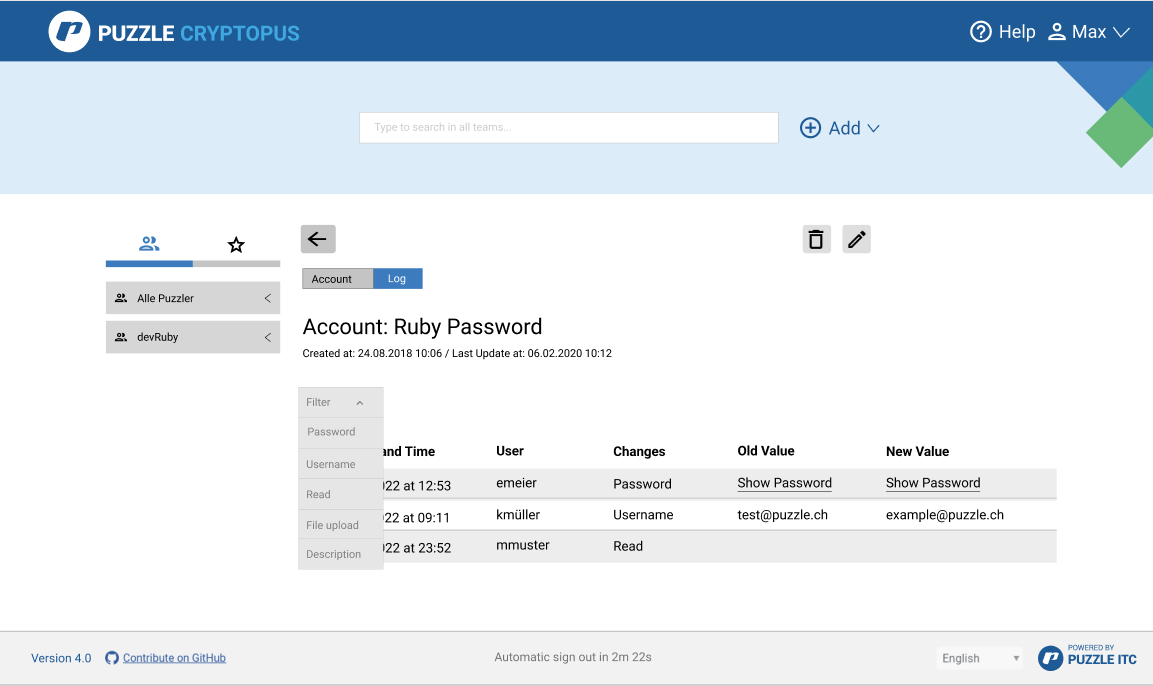
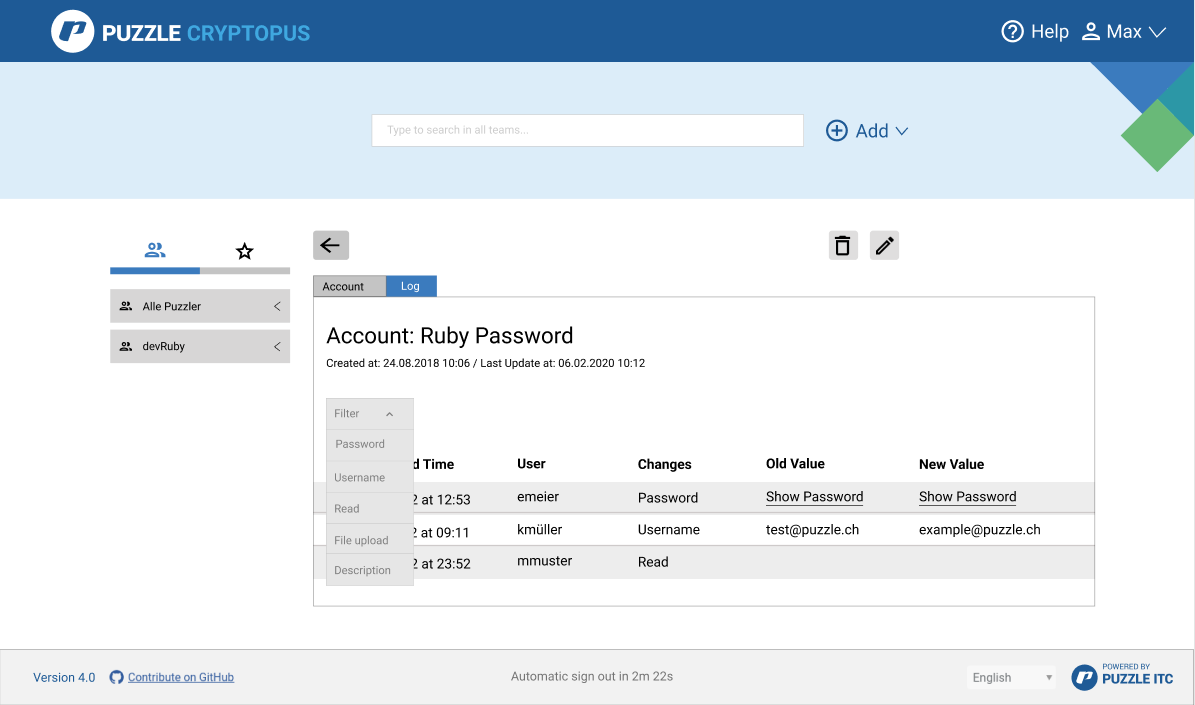
Add new mockups

diff --git a/README.md b/README.md
@@ -30,7 +30,7 @@ There will be a new tab with the name "Log", when you open the detail view of an
 In the new tab "Log", you can see who accessed the account. This would be, if someone opens the account page, copied an attribute or edited something. Additionally, you can see, which date and time the access has been.
 
 
-![Minimum example](/images/MinimalExampleLogTab.png)
+![Minimum example](/images/MinimalExampleLogPage.png)
 
 
 
